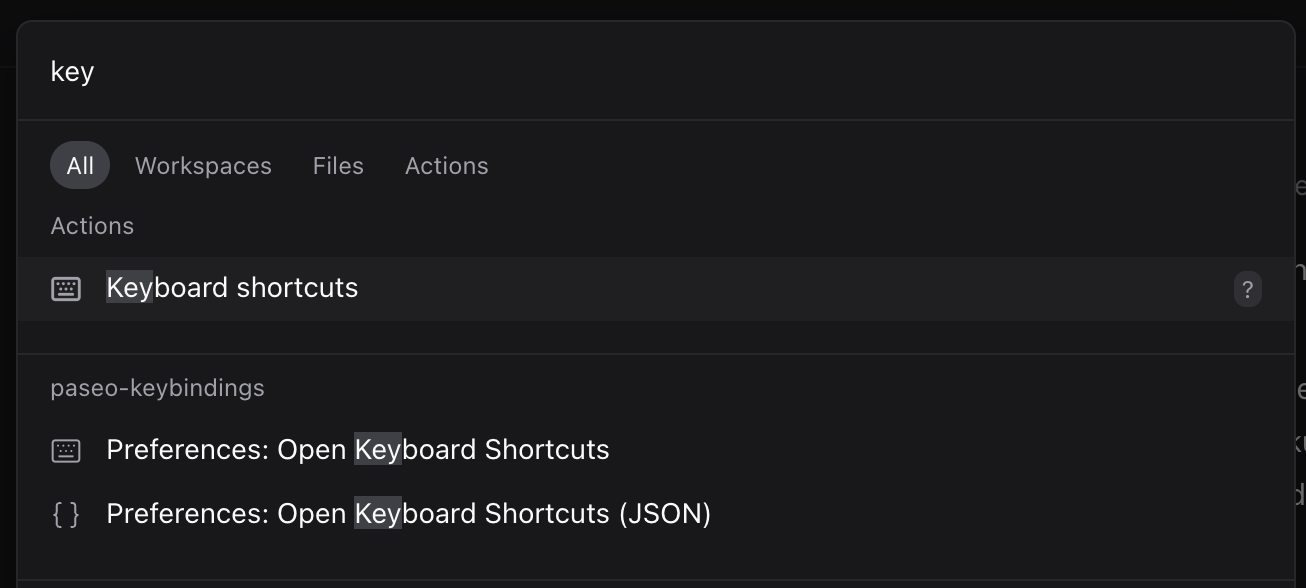
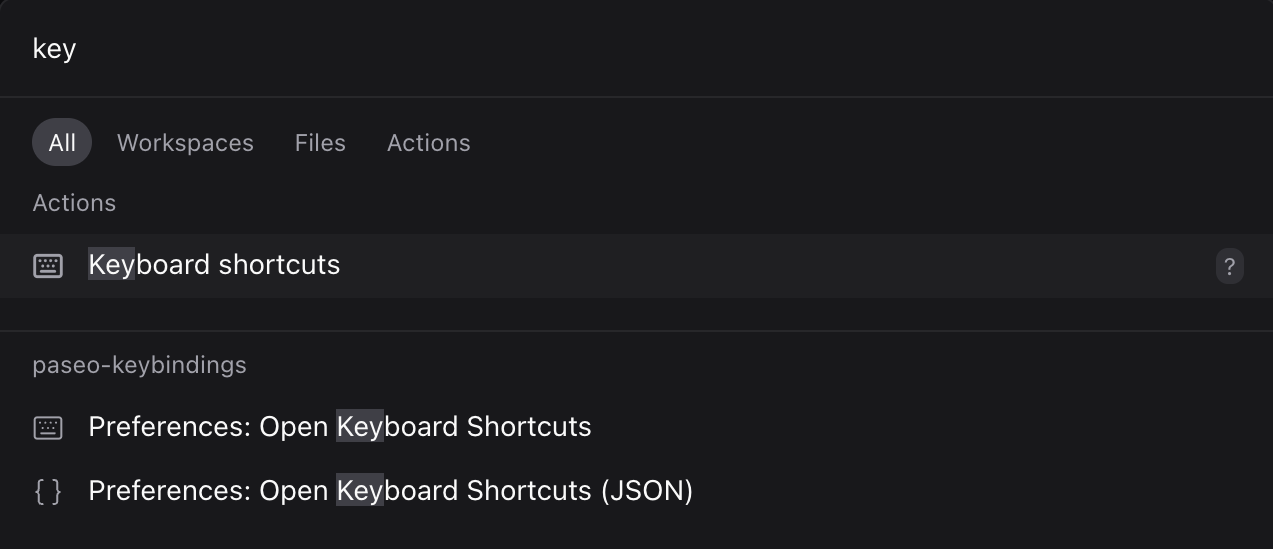
docs: crop screenshots and size them in the readme

diff --git a/README.md b/README.md
@@ -4,7 +4,9 @@
 
 <p align="center">VS Code-style, focus-aware keyboard shortcuts for the Paseo desktop and web app.</p>
 
-![Keyboard Shortcuts table](assets/screenshots/keyboard-shortcuts.png)
+<p align="center">
+  <img src="assets/screenshots/keyboard-shortcuts.png" width="860" alt="Keyboard Shortcuts table listing Paseo shortcuts and a user Ctrl+C binding with a when clause">
+</p>
 
 One `keybindings.json` of `{ key, command, when }` entries remaps both the plugin's commands (copy,
 paste, cursor movement, terminal keys) and Paseo's own actions (workspaces, panes, tabs, composer).
@@ -24,7 +26,9 @@ paseo plugin install github:lmgarret/paseo-keybindings
 
 Open the Command Center (Cmd/Ctrl+K) and type `key`:
 
-![Command Center entries](assets/screenshots/command-center.png)
+<p align="center">
+  <img src="assets/screenshots/command-center.png" width="560" alt="Command Center showing the two Preferences: Open Keyboard Shortcuts entries">
+</p>
 
 - **Preferences: Open Keyboard Shortcuts**: a searchable table of every command and Paseo
   shortcut. Click the pencil on a row, press the new key combination, then Enter.
